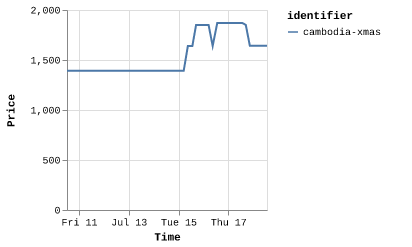
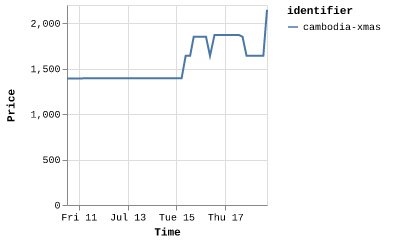
Latest scraping flights: Fri Jul 18 16:57:41 UTC 2025

Changed region(s): [[0.0, 0.0, 0.6699, 0.9835], [0.699, 0.0289, 0.932, 0.1446]]

diff --git a/scrapes/flights/cambodia-xmas.md b/scrapes/flights/cambodia-xmas.md
@@ -1,1 +1,1 @@
-€1,643
+€2,147
